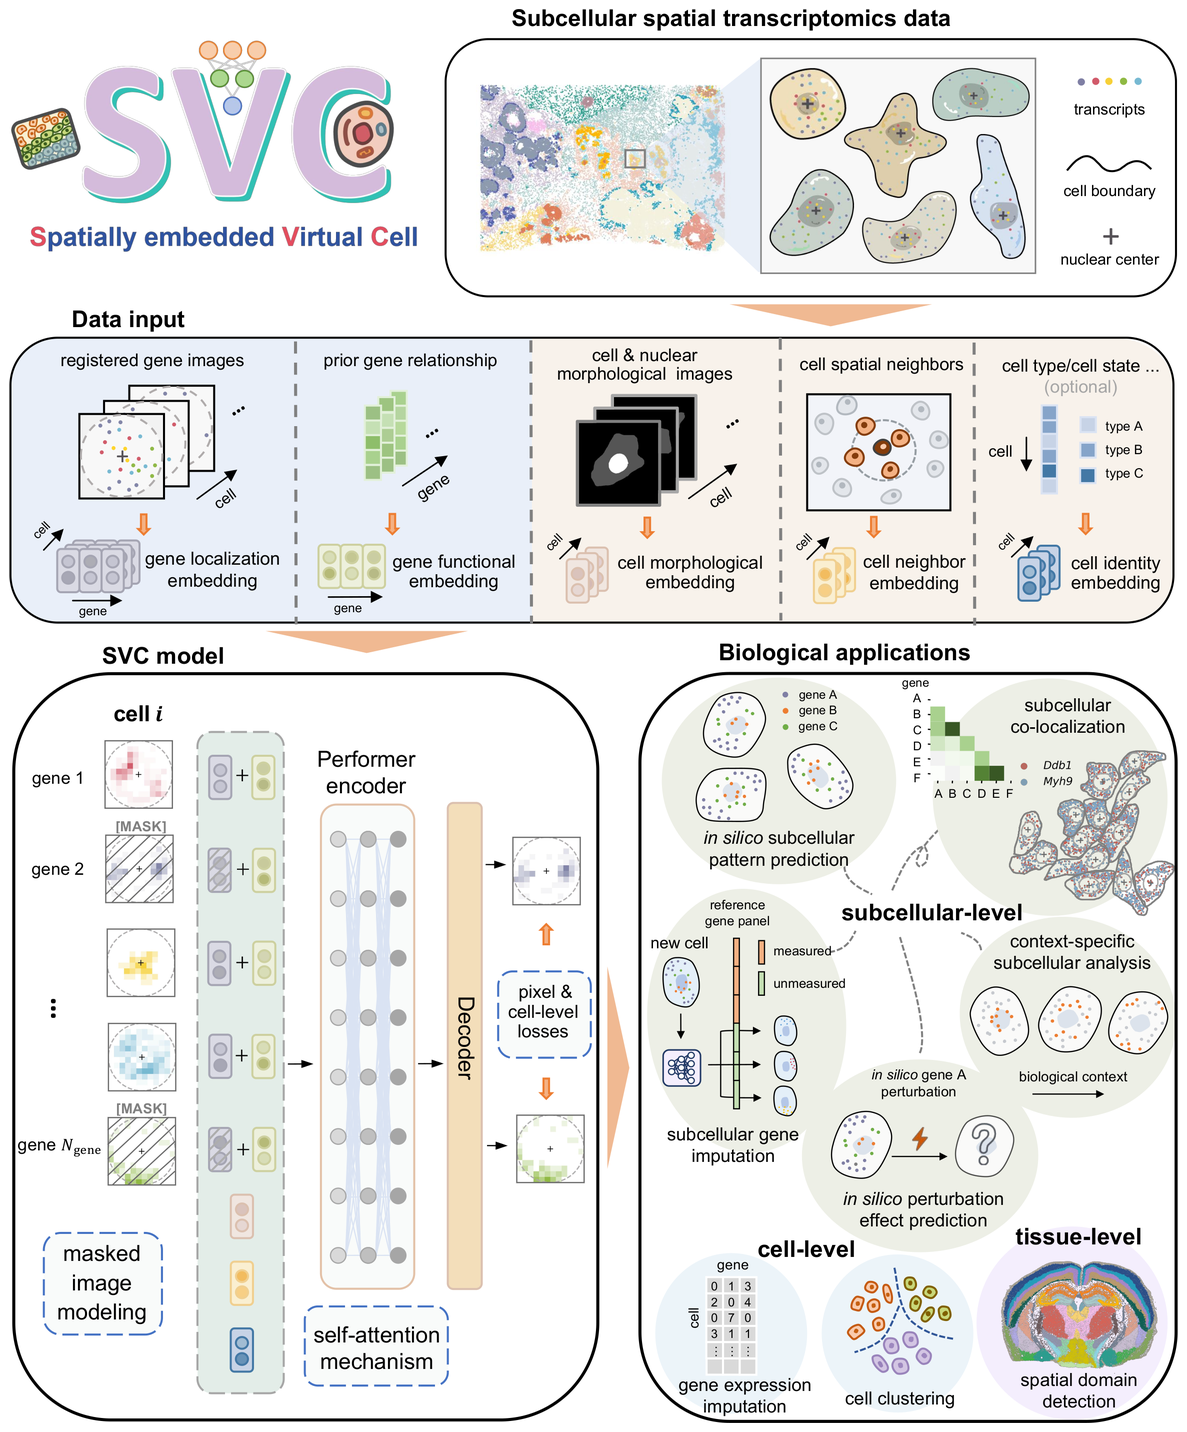
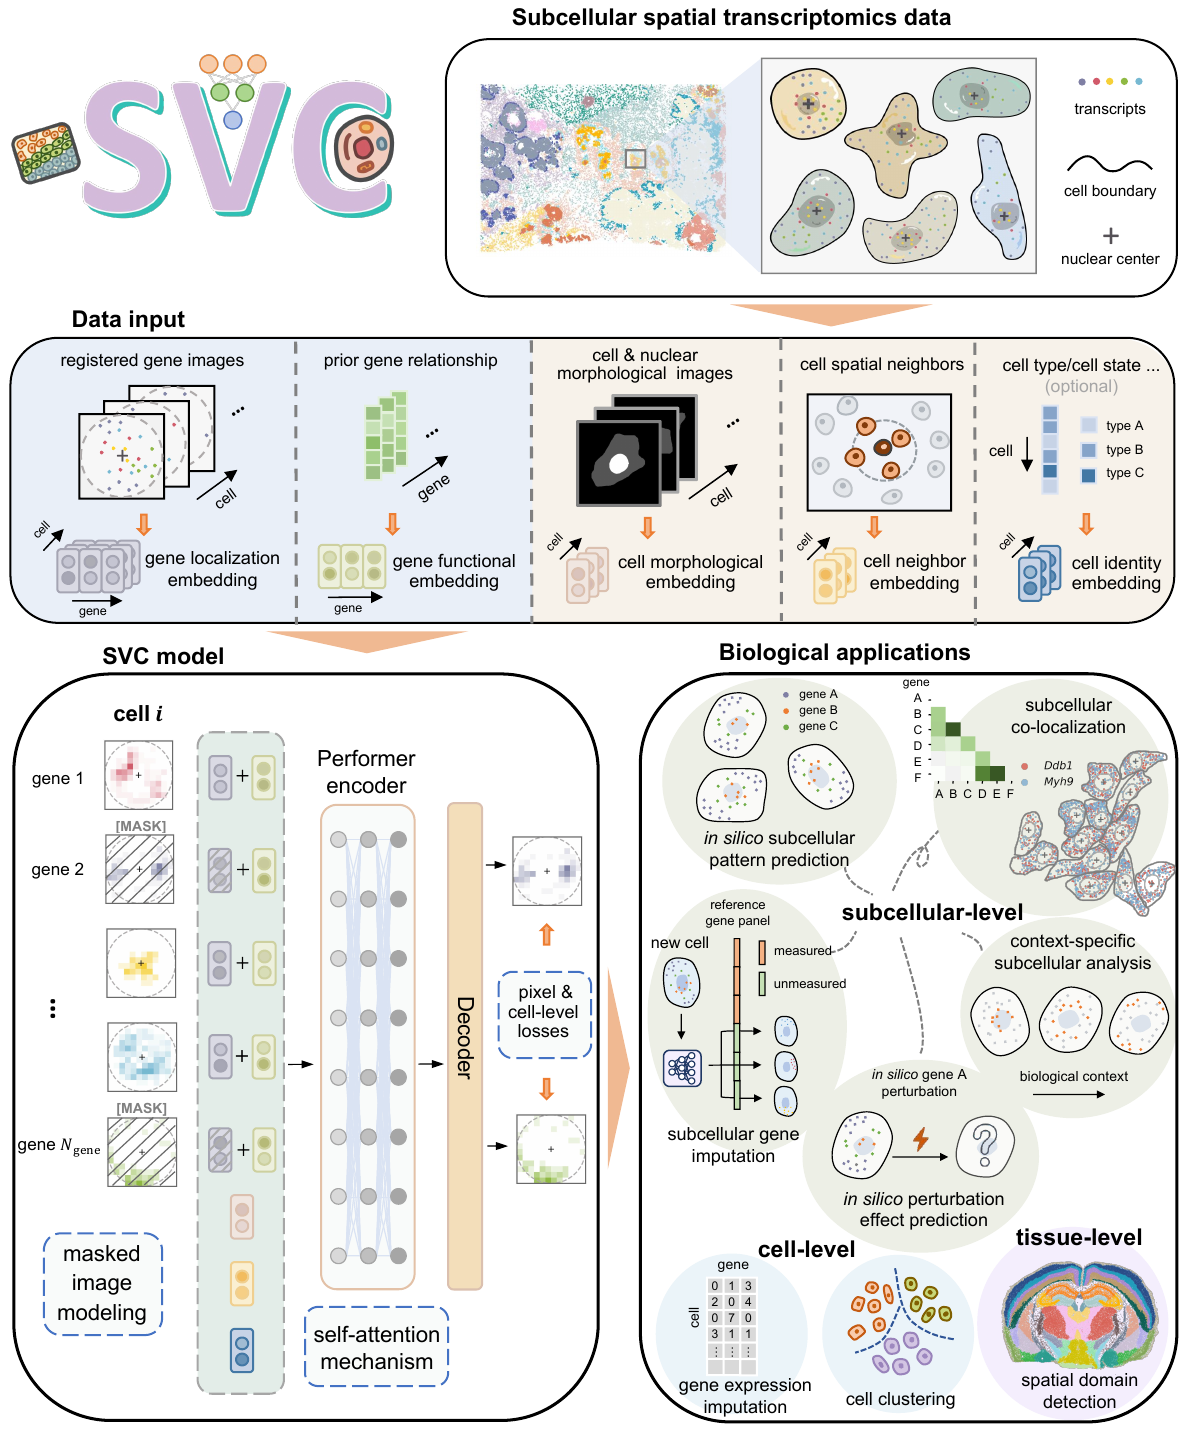
Update docs

diff --git a/docs/source/getting_started.md b/docs/source/getting_started.md
@@ -1,6 +1,6 @@
 # Getting started
 
-**SVC (Spatially embedded Virtual Cell)** is a Vision Transformer (ViT)-based spatial virtual cell model trained on subcellular spatial transcriptomics data that provide fine-grained molecular localization within each cell while retaining higher-level cellular and tissue context. It learns cell-specific gene dependencies to represent and predict subcellular transcript organization within native tissue context.
+**SVC** is a unified artificial intelligence (AI)-based predictive model for subcellular-resolution spatial transcriptomics (ST) that captures and predicts the subcellular localization of transcripts within individual cells in their spatial tissue context.
 
 ```{image} _static/input_data.png
 :alt: Subcellular spatial transcriptomics data

diff --git a/README.md b/README.md
@@ -1,6 +1,6 @@
 # SVC
 
-**SVC: A Vision Transformer-based Spatial Virtual Cell Model for Deciphering Subcellular Spatial Transcriptomic Heterogeneity**
+**SVC Deciphers Subcellular Spatial Transcriptomic Heterogeneity through Vision Transformer-based Modeling**
 
 Hui Wan, Penghui Yang, Siyu Hou, Jade Xiaoqing Wang and Xiang Zhou\*
 
